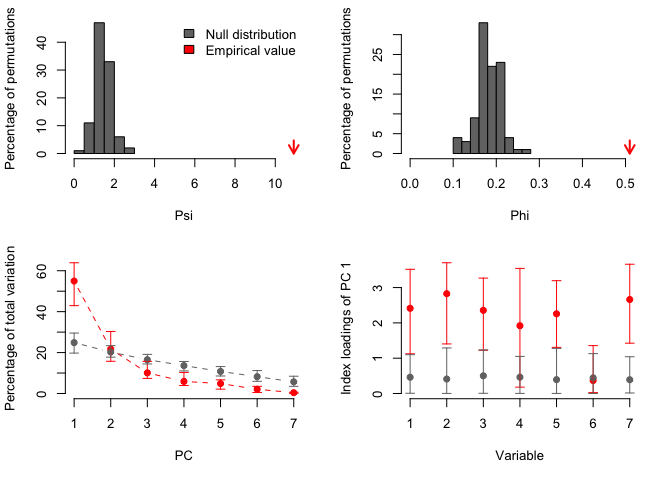
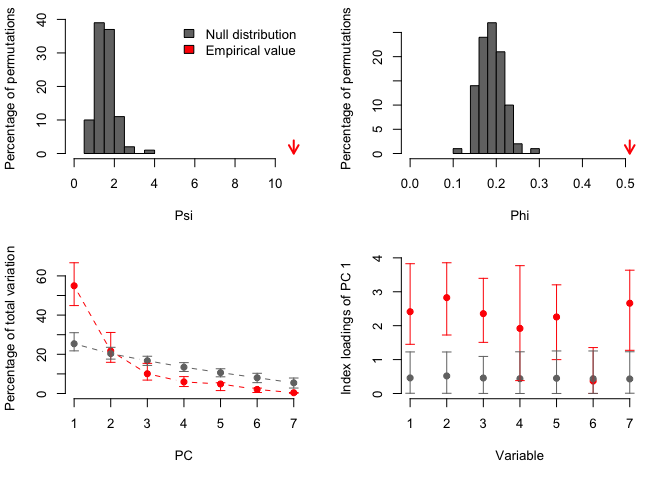
commit this

diff --git a/README.md b/README.md
@@ -11,7 +11,7 @@ The goal of PCAtest is to evaluate the overall significance of a PCA, of
 each PC axis, and of the contributions of each observed variable to the
 significant axes based on permutation-based statistical tests. PCAtest
 uses random permutations to build null distributions for several
-statistics of a PCAanalysis: Psi (Vieira 2012), Phi (Gleason and Staelin
+statistics of a PCAanalysis: Psi (Vieira 2012),Phi (Gleason and Staelin
 1975), the rank-of-roots (ter Braak 1988), the index of the loadings
 (Vieira 2012), and the correlations of the PC with the variables
 (Jackson 1991). Comparing these distributions with the observed values
@@ -45,8 +45,8 @@ result<-PCAtest(ex0, 100, 100, 0.05, corr=FALSE, plot=TRUE)
 #> 100 bootstrap replicates, 100 random permutations
 #> ========================================================
 #> 
-#> Empirical Psi = 0.1691, Max null Psi = 0.4437, Min null Psi = 0.0490, p-value = 0.67
-#> Empirical Phi = 0.0920, Max null Phi = 0.1489, Min null Phi = 0.0495, p-value = 0.67
+#> Empirical Psi = 0.1691, Max null Psi = 0.5065, Min null Psi = 0.0234, p-value = 0.52
+#> Empirical Phi = 0.0920, Max null Phi = 0.1591, Min null Phi = 0.0342, p-value = 0.52
 #> 
 #> PCA is not significant!
 ```
@@ -63,16 +63,16 @@ result<-PCAtest(ex05, 100, 100, 0.05, corr=FALSE, plot=TRUE)
 #> 100 bootstrap replicates, 100 random permutations
 #> ========================================================
 #> 
-#> Empirical Psi = 5.4655, Max null Psi = 0.5097, Min null Psi = 0.0476, p-value = 0
-#> Empirical Phi = 0.5228, Max null Phi = 0.1596, Min null Phi = 0.0488, p-value = 0
+#> Empirical Psi = 5.4655, Max null Psi = 0.3982, Min null Psi = 0.0448, p-value = 0
+#> Empirical Phi = 0.5228, Max null Phi = 0.1411, Min null Phi = 0.0473, p-value = 0
 #> 
-#> Empirical eigenvalue #1 = 3.08098, Max null eigenvalue = 1.55051, p-value = 0
-#> Empirical eigenvalue #2 = 0.63526, Max null eigenvalue = 1.28485, p-value = 1
-#> Empirical eigenvalue #3 = 0.52603, Max null eigenvalue = 1.08123, p-value = 1
-#> Empirical eigenvalue #4 = 0.43234, Max null eigenvalue = 0.9792, p-value = 1
-#> Empirical eigenvalue #5 = 0.3254, Max null eigenvalue = 0.87685, p-value = 1
+#> Empirical eigenvalue #1 = 3.08098, Max null eigenvalue = 1.49068, p-value = 0
+#> Empirical eigenvalue #2 = 0.63526, Max null eigenvalue = 1.29648, p-value = 1
+#> Empirical eigenvalue #3 = 0.52603, Max null eigenvalue = 1.09247, p-value = 1
+#> Empirical eigenvalue #4 = 0.43234, Max null eigenvalue = 0.96903, p-value = 1
+#> Empirical eigenvalue #5 = 0.3254, Max null eigenvalue = 0.8795, p-value = 1
 #> 
-#> PC 1 is significant and accounts for 61.6% (95%-CI:54.3-68.2) of the total variation
+#> PC 1 is significant and accounts for 61.6% (95%-CI:53.8-68.4) of the total variation
 #> 
 #> Variables 1, 2, 3, 4, and 5 have significant loadings on PC 1
 ```
@@ -91,14 +91,14 @@ result<-PCAtest(ex1, 100, 100, 0.05, corr=FALSE, plot=TRUE)
 #> 100 bootstrap replicates, 100 random permutations
 #> ========================================================
 #> 
-#> Empirical Psi = 20.0000, Max null Psi = 0.5486, Min null Psi = 0.0542, p-value = 0
-#> Empirical Phi = 1.0000, Max null Phi = 0.1656, Min null Phi = 0.0521, p-value = 0
+#> Empirical Psi = 20.0000, Max null Psi = 0.6053, Min null Psi = 0.0618, p-value = 0
+#> Empirical Phi = 1.0000, Max null Phi = 0.1740, Min null Phi = 0.0556, p-value = 0
 #> 
-#> Empirical eigenvalue #1 = 5, Max null eigenvalue = 1.45789, p-value = 0
-#> Empirical eigenvalue #2 = 0, Max null eigenvalue = 1.32639, p-value = 1
-#> Empirical eigenvalue #3 = 0, Max null eigenvalue = 1.13834, p-value = 1
-#> Empirical eigenvalue #4 = 0, Max null eigenvalue = 0.97442, p-value = 1
-#> Empirical eigenvalue #5 = 0, Max null eigenvalue = 0.88724, p-value = 1
+#> Empirical eigenvalue #1 = 5, Max null eigenvalue = 1.55162, p-value = 0
+#> Empirical eigenvalue #2 = 0, Max null eigenvalue = 1.28892, p-value = 1
+#> Empirical eigenvalue #3 = 0, Max null eigenvalue = 1.08888, p-value = 1
+#> Empirical eigenvalue #4 = 0, Max null eigenvalue = 0.99527, p-value = 1
+#> Empirical eigenvalue #5 = 0, Max null eigenvalue = 0.86871, p-value = 1
 #> 
 #> PC 1 is significant and accounts for 100% (95%-CI:100-100) of the total variation
 #> 
@@ -118,18 +118,18 @@ result<-PCAtest(ants, 100, 100, 0.05, corr=FALSE, plot=TRUE)
 #> 100 bootstrap replicates, 100 random permutations
 #> ========================================================
 #> 
-#> Empirical Psi = 10.9186, Max null Psi = 2.9768, Min null Psi = 0.4537, p-value = 0
-#> Empirical Phi = 0.5099, Max null Phi = 0.2662, Min null Phi = 0.1039, p-value = 0
+#> Empirical Psi = 10.9186, Max null Psi = 3.5190, Min null Psi = 0.5724, p-value = 0
+#> Empirical Phi = 0.5099, Max null Phi = 0.2895, Min null Phi = 0.1167, p-value = 0
 #> 
-#> Empirical eigenvalue #1 = 3.84712, Max null eigenvalue = 2.4439, p-value = 0
-#> Empirical eigenvalue #2 = 1.52017, Max null eigenvalue = 1.74442, p-value = 0.15
-#> Empirical eigenvalue #3 = 0.70634, Max null eigenvalue = 1.35568, p-value = 1
-#> Empirical eigenvalue #4 = 0.41356, Max null eigenvalue = 1.10843, p-value = 1
-#> Empirical eigenvalue #5 = 0.34001, Max null eigenvalue = 1.03463, p-value = 1
-#> Empirical eigenvalue #6 = 0.14515, Max null eigenvalue = 0.80556, p-value = 1
-#> Empirical eigenvalue #7 = 0.02765, Max null eigenvalue = 0.62884, p-value = 1
+#> Empirical eigenvalue #1 = 3.84712, Max null eigenvalue = 2.48287, p-value = 0
+#> Empirical eigenvalue #2 = 1.52017, Max null eigenvalue = 1.70754, p-value = 0.23
+#> Empirical eigenvalue #3 = 0.70634, Max null eigenvalue = 1.4409, p-value = 1
+#> Empirical eigenvalue #4 = 0.41356, Max null eigenvalue = 1.1566, p-value = 1
+#> Empirical eigenvalue #5 = 0.34001, Max null eigenvalue = 0.94203, p-value = 1
+#> Empirical eigenvalue #6 = 0.14515, Max null eigenvalue = 0.74414, p-value = 1
+#> Empirical eigenvalue #7 = 0.02765, Max null eigenvalue = 0.63742, p-value = 1
 #> 
-#> PC 1 is significant and accounts for 55% (95%-CI:42.9-63.9) of the total variation
+#> PC 1 is significant and accounts for 55% (95%-CI:44.9-66.7) of the total variation
 #> 
 #> Variables 1, 2, 3, 4, 5, and 7 have significant loadings on PC 1
 ```
